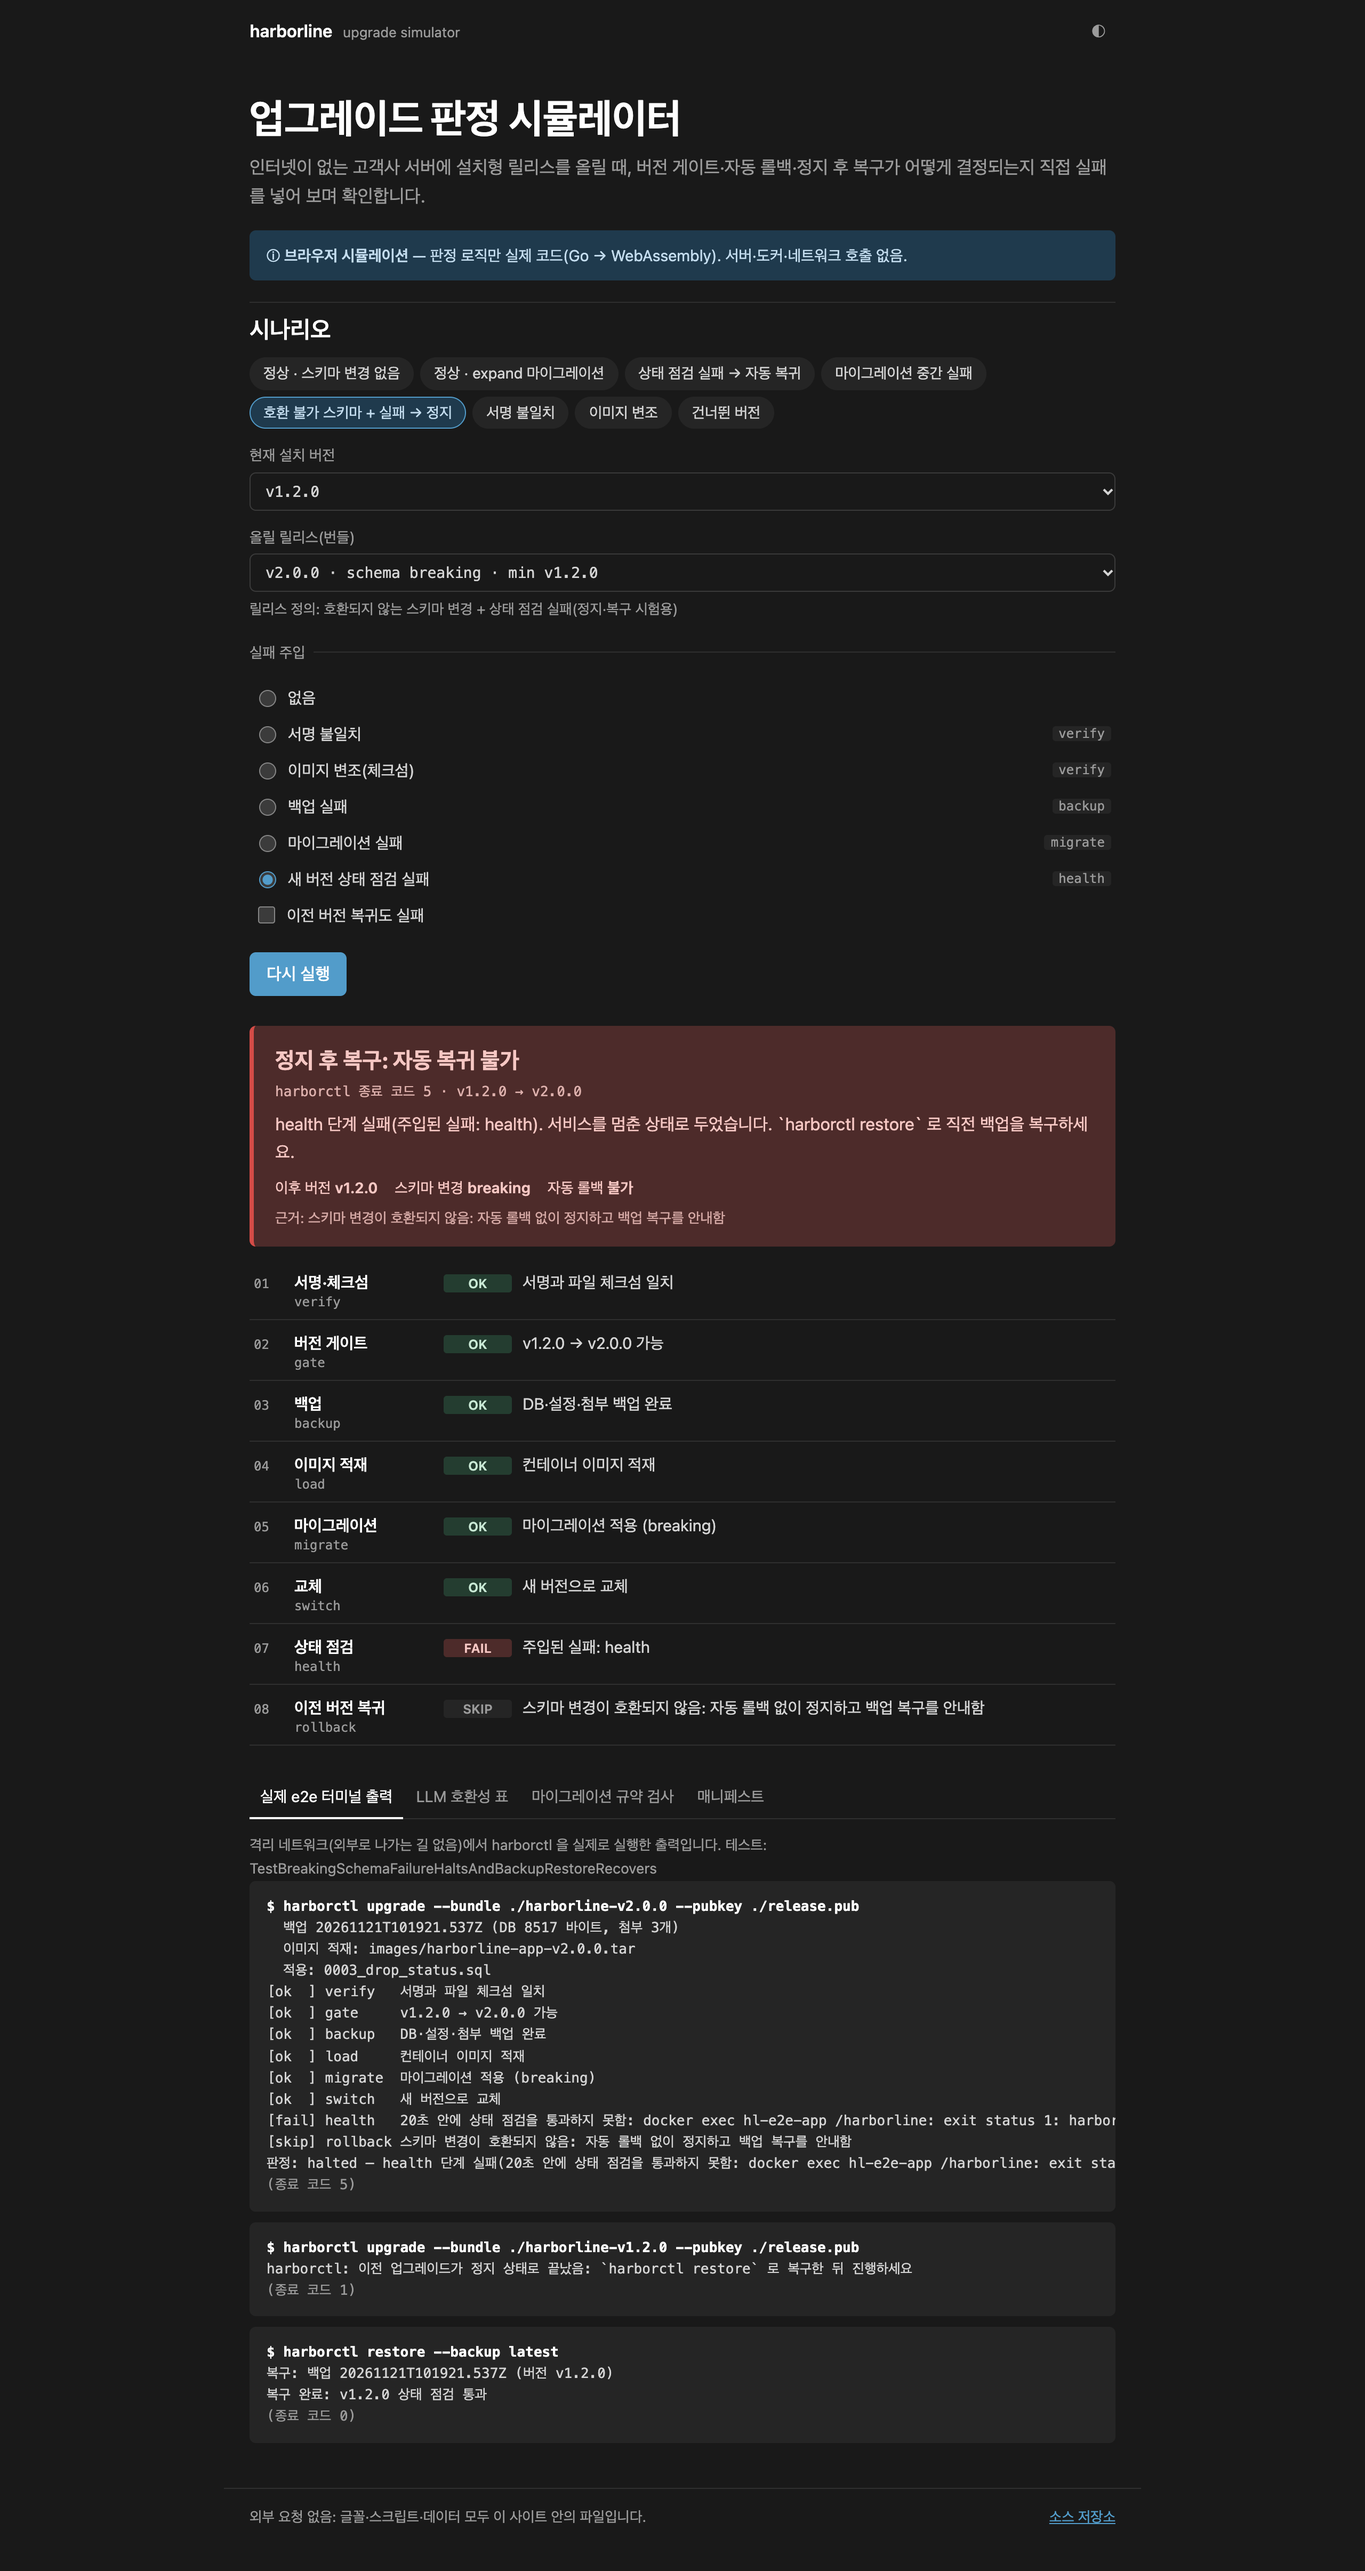
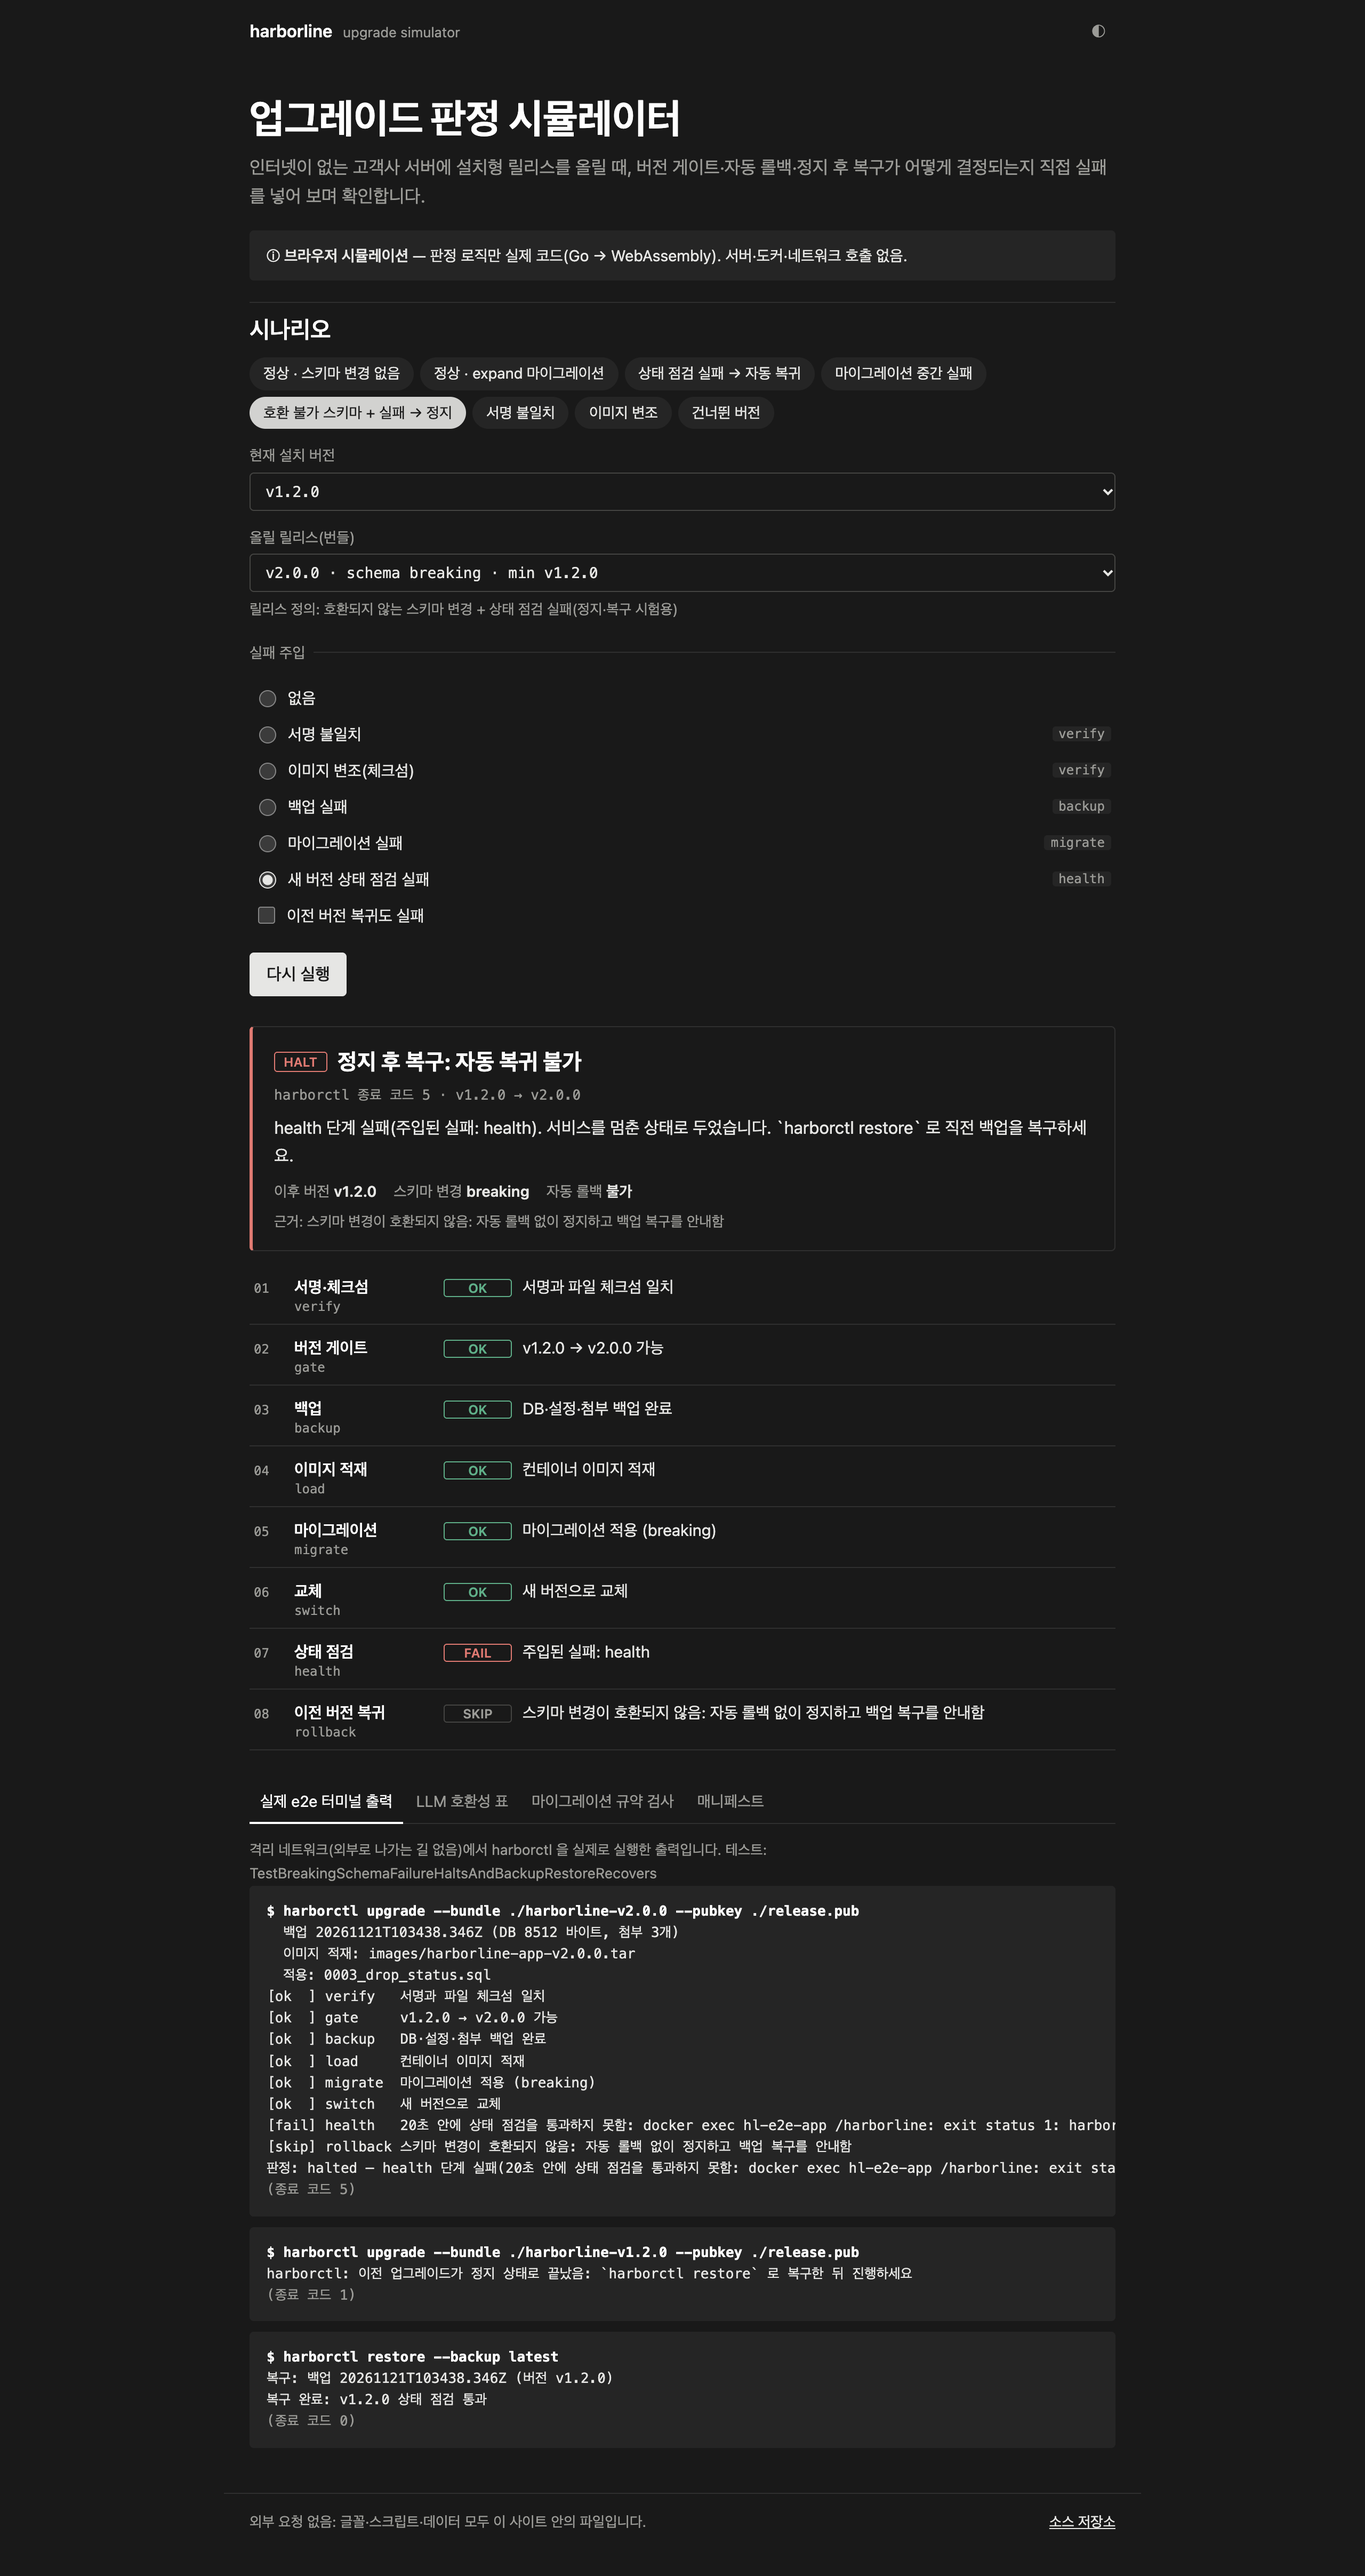
style(web): 색 면을 없애고 먹색·종이 톤 무채색 체계로 교체

diff --git a/web/src/style.css b/web/src/style.css
@@ -1,26 +1,25 @@
 :root {
-  --bg: #ffffff; --panel: #ffffff; --soft: #f7f6f3; --line: #e9e9e7; --line2: #d9d8d4; --text: #37352f; --strong: #1f1e1b; --muted: #787774;
-  --ok-bg: #dbeddb; --ok: #1c3829; --warn-bg: #fdecc8; --warn: #402c1b; --bad-bg: #ffe2dd; --bad: #5d1715; --info-bg: #d3e5ef; --info: #183347;
-  --accent: #2383e2; --code-bg: #f1f0ee; --code: #37352f;
+  --bg: #ffffff; --soft: #f7f6f3; --line: #e9e9e7; --line2: #d3d2ce; --text: #37352f; --strong: #1f1e1b; --muted: #6b6a66;
+  --ink: #37352f; --on-ink: #ffffff;
+  --ok: #3a735a; --bad: #b5443c; --warn: #8f6628; --ok-dot: #448361; --bad-dot: #c4554d; --warn-dot: #b3823b;
   --sans: ui-sans-serif, -apple-system, BlinkMacSystemFont, "Apple SD Gothic Neo", "Malgun Gothic", "Noto Sans KR", "Segoe UI", Helvetica, Arial, sans-serif;
   --mono: ui-monospace, SFMono-Regular, Menlo, Consolas, "Liberation Mono", monospace;
   color-scheme: light;
 }
 :root[data-theme="dark"] {
-  --bg: #191919; --panel: #191919; --soft: #252525; --line: #2f2f2f; --line2: #3a3a3a; --text: #d4d4d4; --strong: #ffffff; --muted: #9b9b9b;
-  --ok-bg: #243d30; --ok: #c8e8d4; --warn-bg: #4a3b1f; --warn: #f3dba8; --bad-bg: #4d2b2a; --bad: #f6c7c3; --info-bg: #1f3a4d; --info: #c3dcee;
-  --accent: #529cca; --code-bg: #252525; --code: #d4d4d4;
+  --bg: #191919; --soft: #252525; --line: #2f2f2f; --line2: #444442; --text: #e6e6e4; --strong: #ffffff; --muted: #9b9b97;
+  --ink: #e6e6e4; --on-ink: #191919;
+  --ok: #5fae88; --bad: #e07a72; --warn: #d4a45a; --ok-dot: #5fae88; --bad-dot: #e07a72; --warn-dot: #d4a45a;
   color-scheme: dark;
 }
 * { box-sizing: border-box; }
 body { margin: 0; background: var(--bg); color: var(--text); font: 16px/1.6 var(--sans); -webkit-text-size-adjust: 100%; }
 code, pre, select, input, textarea { font-family: var(--mono); }
-code { background: var(--code-bg); padding: .1em .4em; border-radius: 4px; font-size: .88em; color: #eb5757; }
-:root[data-theme="dark"] code { color: #ff8a80; }
+code { background: var(--soft); padding: .1em .4em; border-radius: 4px; font-size: .88em; color: var(--text); }
 .sr { position: absolute; width: 1px; height: 1px; overflow: hidden; clip: rect(0 0 0 0); white-space: nowrap; }
-.skiplink { position: absolute; left: 8px; top: -48px; background: var(--strong); color: var(--bg); padding: 8px 12px; border-radius: 4px; z-index: 10; }
+.skiplink { position: absolute; left: 8px; top: -48px; background: var(--ink); color: var(--on-ink); padding: 8px 12px; border-radius: 4px; z-index: 10; }
 .skiplink:focus { top: 8px; }
-:focus-visible { outline: 2px solid var(--accent); outline-offset: 2px; border-radius: 3px; }
+:focus-visible { outline: 2px solid var(--ink); outline-offset: 2px; border-radius: 3px; }
 button { font: inherit; cursor: pointer; }
 
 .top { display: flex; align-items: center; justify-content: space-between; max-width: 860px; margin: 0 auto; padding: 14px 24px; }
@@ -34,7 +33,7 @@ button { font: inherit; cursor: pointer; }
 .page { padding-top: 28px; }
 h1 { margin: 0; font-size: 38px; line-height: 1.2; font-weight: 700; color: var(--strong); letter-spacing: -.01em; }
 .lead { margin: 10px 0 18px; color: var(--muted); font-size: 17px; }
-.banner { margin: 0 0 8px; background: var(--info-bg); color: var(--info); border-radius: 6px; padding: 12px 16px; font-size: 14.5px; }
+.banner { margin: 0 0 8px; background: var(--soft); color: var(--text); border-radius: 4px; padding: 12px 16px; font-size: 14.5px; }
 .banner::before { content: "ⓘ  "; }
 .banner strong { font-weight: 600; }
 
@@ -46,7 +45,7 @@ h2 { margin: 0 0 8px; font-size: 22px; font-weight: 600; color: var(--strong); p
 
 label { display: block; font-size: 14px; color: var(--muted); margin: 14px 0 4px; }
 select, input:not([type]), textarea {
-  width: 100%; background: var(--bg); color: var(--text); border: 1px solid var(--line2); border-radius: 6px; padding: 8px 10px; font-size: 14px;
+  width: 100%; background: var(--bg); color: var(--text); border: 1px solid var(--line2); border-radius: 4px; padding: 8px 10px; font-size: 14px;
 }
 select:hover, textarea:hover, input:not([type]):hover { background: var(--soft); }
 textarea { resize: vertical; line-height: 1.5; }
@@ -55,38 +54,43 @@ fieldset { border: 0; border-top: 1px solid var(--line); margin: 18px 0 0; paddi
 legend { font-size: 14px; color: var(--muted); padding: 0 8px 0 0; }
 label.radio, label.check { display: flex; align-items: center; gap: 8px; color: var(--text); margin: 4px 0; font-size: 15px; cursor: pointer; padding: 3px 4px; border-radius: 4px; }
 label.radio:hover, label.check:hover { background: var(--soft); }
-input[type="radio"], input[type="checkbox"] { accent-color: var(--accent); width: 16px; height: 16px; }
-.tag { margin-left: auto; font: 12px var(--mono); color: var(--muted); background: var(--code-bg); border-radius: 3px; padding: 0 6px; }
-.primary { margin-top: 16px; background: var(--accent); color: #fff; border: 0; border-radius: 6px; padding: 8px 16px; font-weight: 500; }
-.primary:hover { filter: brightness(.94); }
+input[type="radio"], input[type="checkbox"] { accent-color: var(--ink); width: 16px; height: 16px; }
+.tag { margin-left: auto; font: 12px var(--mono); color: var(--muted); background: var(--soft); border-radius: 3px; padding: 0 6px; }
+.primary { margin-top: 16px; background: var(--ink); color: var(--on-ink); border: 0; border-radius: 4px; padding: 8px 16px; font-weight: 500; }
+.primary:hover { opacity: .88; }
 
 .presets { display: flex; flex-wrap: wrap; gap: 6px; margin-bottom: 4px; }
 .presets button { background: var(--soft); color: var(--text); border: 1px solid transparent; border-radius: 999px; padding: 3px 12px; font-size: 14px; }
 .presets button:hover { background: var(--line); }
-.presets button[aria-pressed="true"] { background: var(--info-bg); color: var(--info); border-color: var(--accent); }
+.presets button[aria-pressed="true"]:hover { background: var(--ink); opacity: .9; }
+.presets button[aria-pressed="true"] { background: var(--ink); color: var(--on-ink); border-color: var(--ink); }
 
-.decision { border-radius: 6px; background: var(--soft); padding: 16px 20px; margin-bottom: 12px; border-left: 4px solid var(--line2); }
-.decision[data-o="success"] { background: var(--ok-bg); border-left-color: #4d9a6a; color: var(--ok); }
-.decision[data-o="rolled_back"], .decision[data-o="aborted"] { background: var(--warn-bg); border-left-color: #cb912f; color: var(--warn); }
-.decision[data-o="halted"], .decision[data-o="rejected"] { background: var(--bad-bg); border-left-color: #d44c47; color: var(--bad); }
-.decision .what { font-size: 21px; font-weight: 700; margin: 0; }
-.decision .meta { margin: 4px 0 0; font: 13px var(--mono); opacity: .85; }
+.decision { background: var(--bg); border: 1px solid var(--line); border-left: 3px solid var(--line2); border-radius: 4px; padding: 16px 20px; margin-bottom: 12px; }
+.decision[data-o="success"] { border-left-color: var(--ok-dot); }
+.decision[data-o="rolled_back"], .decision[data-o="aborted"] { border-left-color: var(--warn-dot); }
+.decision[data-o="halted"], .decision[data-o="rejected"] { border-left-color: var(--bad-dot); }
+.decision .what { font-size: 21px; font-weight: 700; margin: 0; color: var(--strong); }
+.decision .what::before { content: "OK"; font: 600 12px var(--sans); vertical-align: 3px; margin-right: 10px; padding: 1px 8px; border-radius: 3px; border: 1px solid; }
+.decision[data-o="success"] .what::before { content: "OK"; color: var(--ok); }
+.decision[data-o="rolled_back"] .what::before { content: "ROLLBACK"; color: var(--warn); }
+.decision[data-o="aborted"] .what::before { content: "ABORT"; color: var(--warn); }
+.decision[data-o="halted"] .what::before { content: "HALT"; color: var(--bad); }
+.decision[data-o="rejected"] .what::before { content: "REJECT"; color: var(--bad); }
+.decision .meta { margin: 6px 0 0; font: 13px var(--mono); color: var(--muted); }
 .decision .advice { margin: 10px 0 0; }
-.facts { display: flex; flex-wrap: wrap; gap: 4px 16px; margin-top: 10px; font-size: 14px; }
-.facts b { font-weight: 600; }
-.decision .hint { color: inherit; opacity: .8; }
-
+.facts { display: flex; flex-wrap: wrap; gap: 4px 16px; margin-top: 10px; font-size: 14px; color: var(--muted); }
+.facts b { font-weight: 600; color: var(--text); }
 .timeline { list-style: none; margin: 0; padding: 0; }
 .timeline li { display: grid; grid-template-columns: 28px 130px 64px 1fr; gap: 10px; align-items: baseline; padding: 9px 4px; border-bottom: 1px solid var(--line); animation: in .25s ease both; animation-delay: calc(var(--i) * 45ms); }
 .timeline li:hover { background: var(--soft); }
 .timeline .n { font: 12px var(--mono); color: var(--muted); }
 .timeline .st { font-weight: 600; color: var(--strong); font-size: 15px; }
 .timeline .st small { display: block; font: 12px var(--mono); color: var(--muted); font-weight: 400; }
-.chip { font: 600 12px var(--sans); border-radius: 3px; padding: 1px 8px; text-align: center; }
-.chip.ok { background: var(--ok-bg); color: var(--ok); }
-.chip.fail { background: var(--bad-bg); color: var(--bad); }
-.chip.skip { background: var(--soft); color: var(--muted); }
-.chip.none { background: var(--soft); color: var(--muted); opacity: .6; }
+.chip { font: 600 12px var(--sans); border-radius: 3px; padding: 0 8px; text-align: center; border: 1px solid; background: var(--bg); }
+.chip.ok { color: var(--ok); }
+.chip.fail { color: var(--bad); }
+.chip.skip, .chip.none { color: var(--muted); border-color: var(--line2); }
+.chip.none { opacity: .6; }
 .timeline li.none { opacity: .55; }
 .timeline .detail { font-size: 15px; overflow-wrap: anywhere; }
 @keyframes in { from { opacity: 0; transform: translateY(3px); } to { opacity: 1; transform: none; } }
@@ -98,24 +102,27 @@ input[type="radio"], input[type="checkbox"] { accent-color: var(--accent); width
 [role="tab"][aria-selected="true"] { color: var(--strong); border-bottom-color: var(--strong); }
 [role="tabpanel"][hidden] { display: none; }
 pre { max-width: 100%; }
-.term { background: var(--code-bg); color: var(--code); border-radius: 6px; padding: 14px 16px; margin: 0 0 10px; font-size: 13px; line-height: 1.55; overflow-x: auto; white-space: pre; }
+.term { background: var(--soft); color: var(--text); border-radius: 4px; padding: 14px 16px; margin: 0 0 10px; font-size: 13px; line-height: 1.55; overflow-x: auto; white-space: pre; }
 .term .cmd { color: var(--strong); font-weight: 600; }
 .term .exit { color: var(--muted); }
 .scroll { overflow-x: auto; }
+.hint a { color: var(--text); }
 table { border-collapse: collapse; width: 100%; font-size: 14px; }
 th, td { border: 1px solid var(--line); padding: 7px 10px; text-align: left; white-space: nowrap; }
 th { background: var(--soft); color: var(--muted); font-weight: 500; }
-td.pass { color: var(--ok); background: var(--ok-bg); } td.fb { color: var(--warn); background: var(--warn-bg); }
-td.off { color: var(--muted); } td.bad { color: var(--bad); background: var(--bad-bg); }
+td.pass { color: var(--ok); } td.fb { color: var(--warn); }
+td.off { color: var(--muted); } td.bad { color: var(--bad); }
+td.pass::before, td.fb::before, td.off::before, td.bad::before { content: "● "; }
+td.off::before { color: var(--line2); }
 .row { display: flex; flex-wrap: wrap; gap: 8px 12px; align-items: center; margin: 10px 0; }
 .row label { margin: 0; } .row input, .row select { width: auto; }
 .viol { margin: 8px 0 0; padding: 0; list-style: none; }
-.viol li { background: var(--bad-bg); color: var(--bad); border-radius: 4px; padding: 6px 12px; margin: 6px 0; font: 13px var(--mono); }
-.okmsg { color: var(--ok); background: var(--ok-bg); border-radius: 4px; padding: 6px 12px; font-size: 14px; margin-top: 8px; display: inline-block; }
+.viol li { background: var(--soft); color: var(--text); border-left: 3px solid var(--bad-dot); border-radius: 4px; padding: 6px 12px; margin: 6px 0; font: 13px var(--mono); }
+.okmsg { color: var(--ok); background: var(--soft); border-radius: 4px; padding: 6px 12px; font-size: 14px; margin-top: 8px; display: inline-block; }
 .boot { color: var(--muted); }
 
 footer { display: flex; justify-content: space-between; gap: 12px; flex-wrap: wrap; padding-top: 16px; padding-bottom: 40px; color: var(--muted); font-size: 13.5px; border-top: 1px solid var(--line); margin-top: 8px; }
-footer a { color: var(--accent); }
+footer a { color: var(--text); text-decoration: underline; }
 
 @media (max-width: 700px) {
   h1 { font-size: 30px; }
